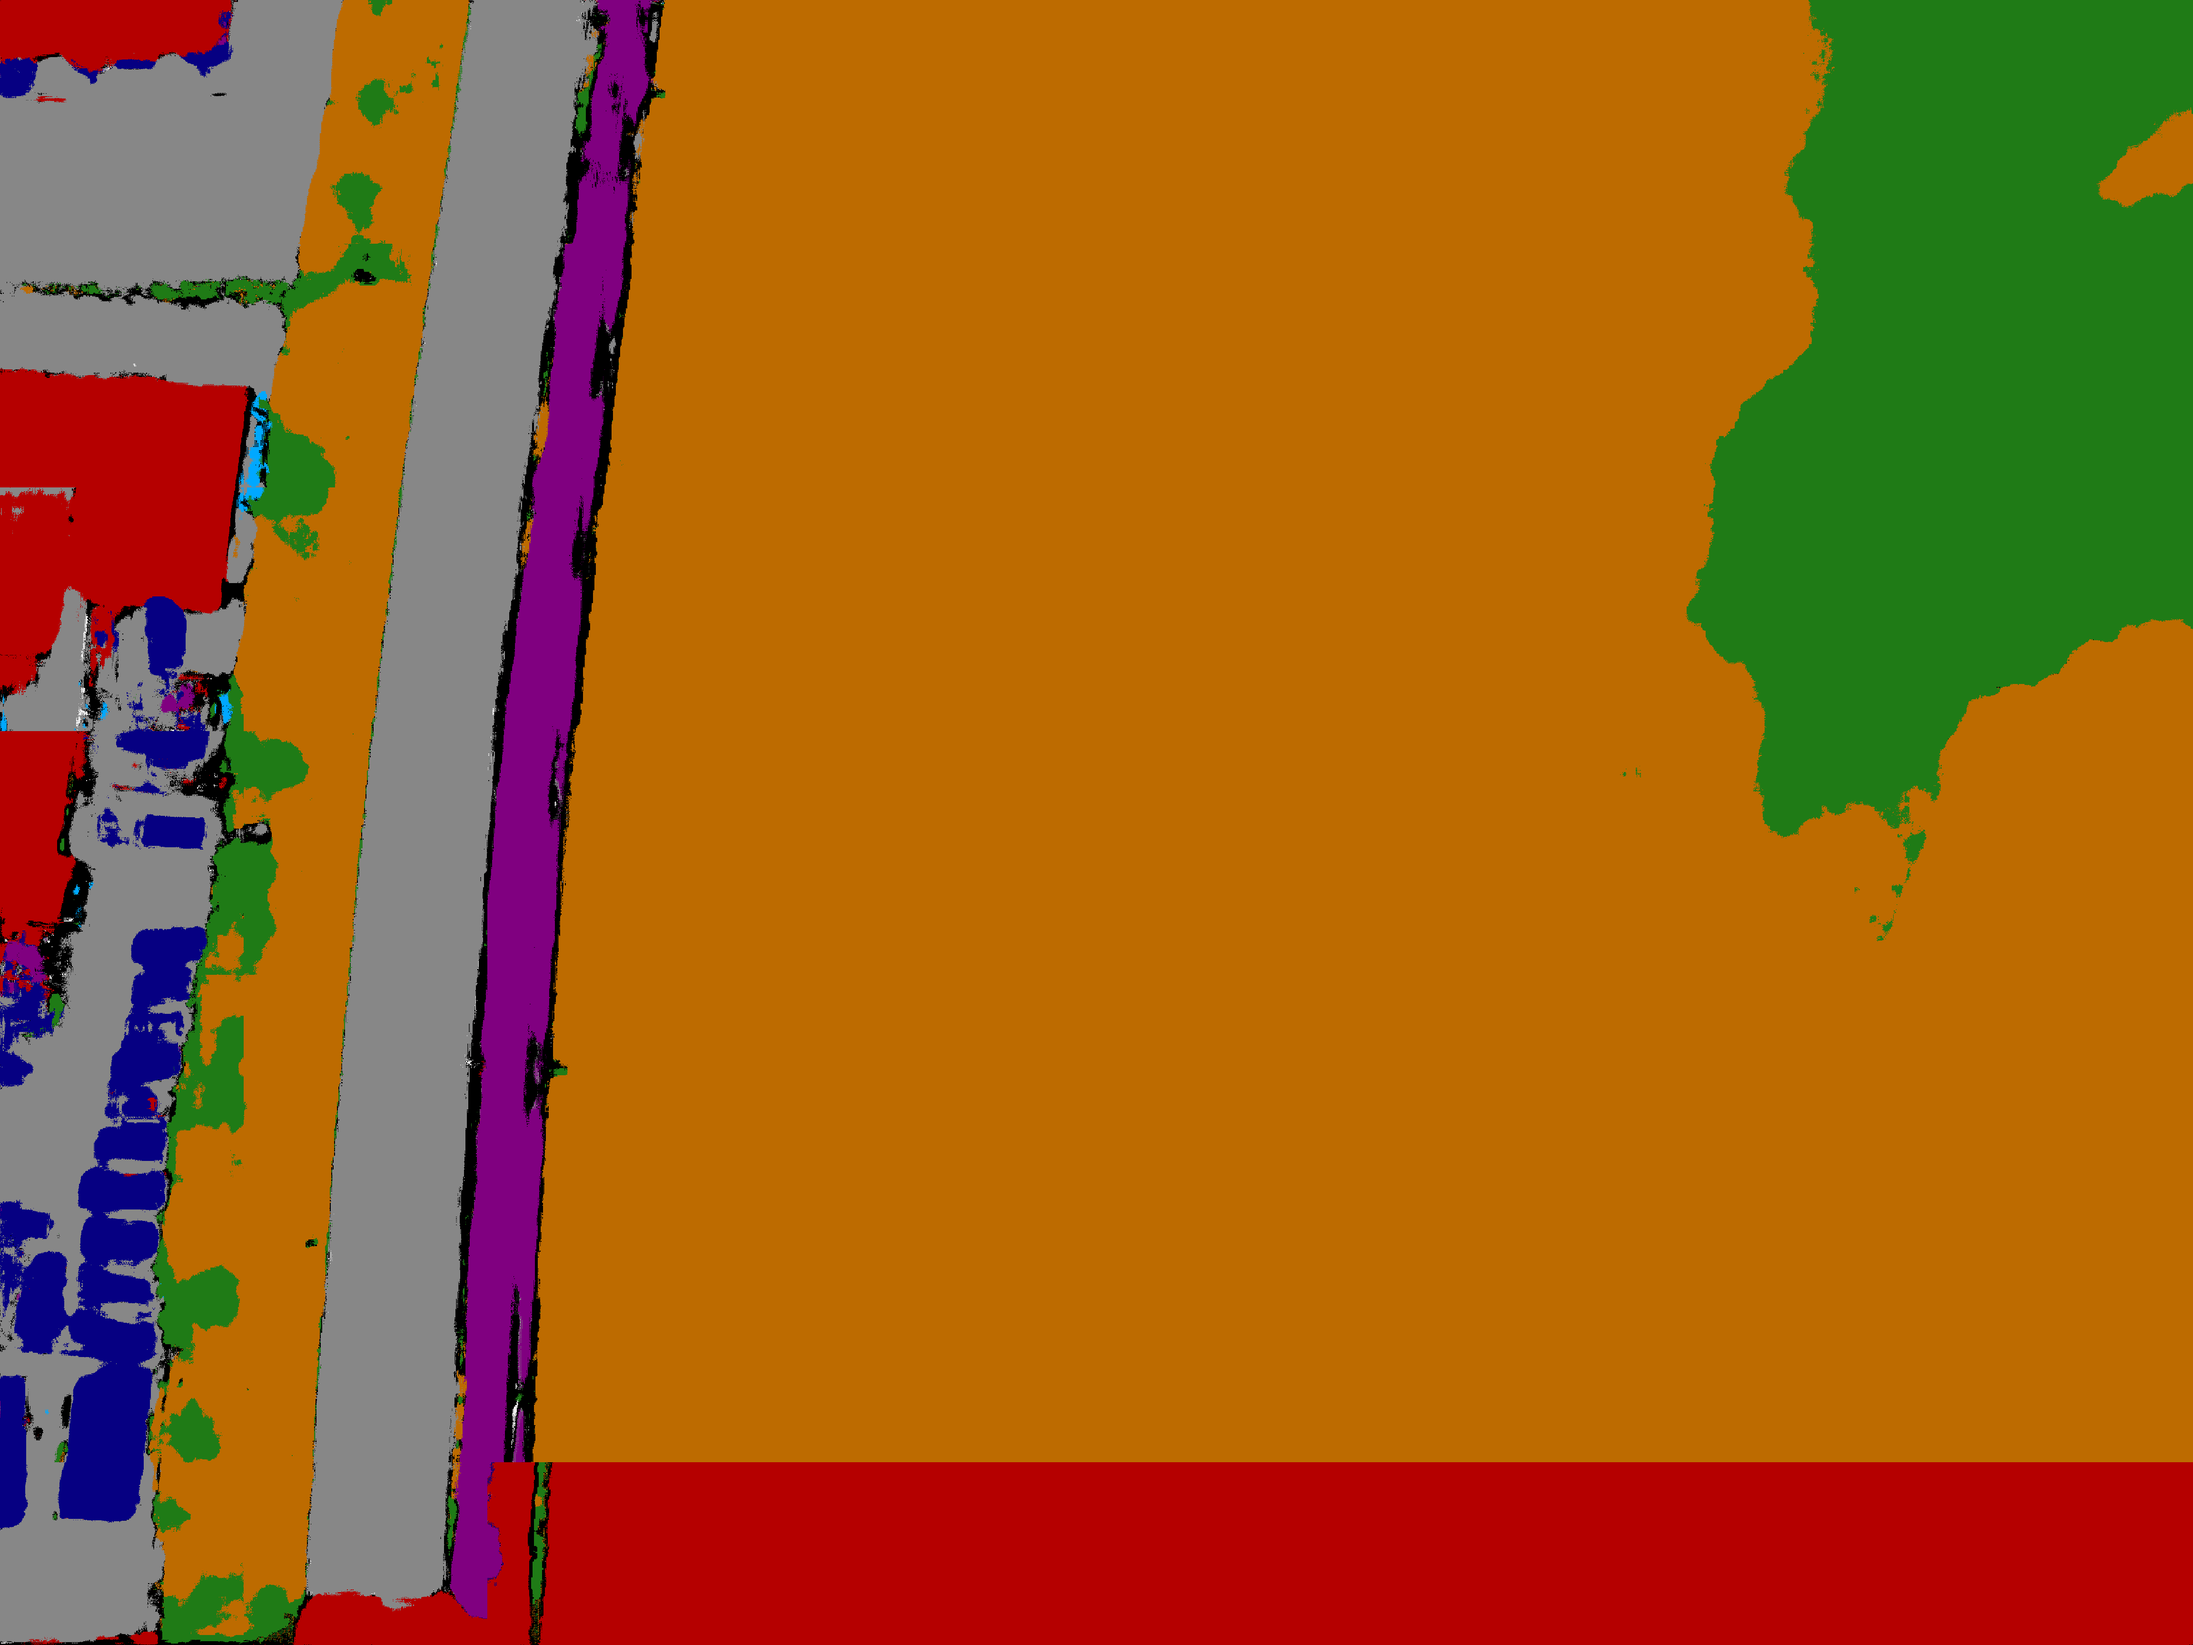
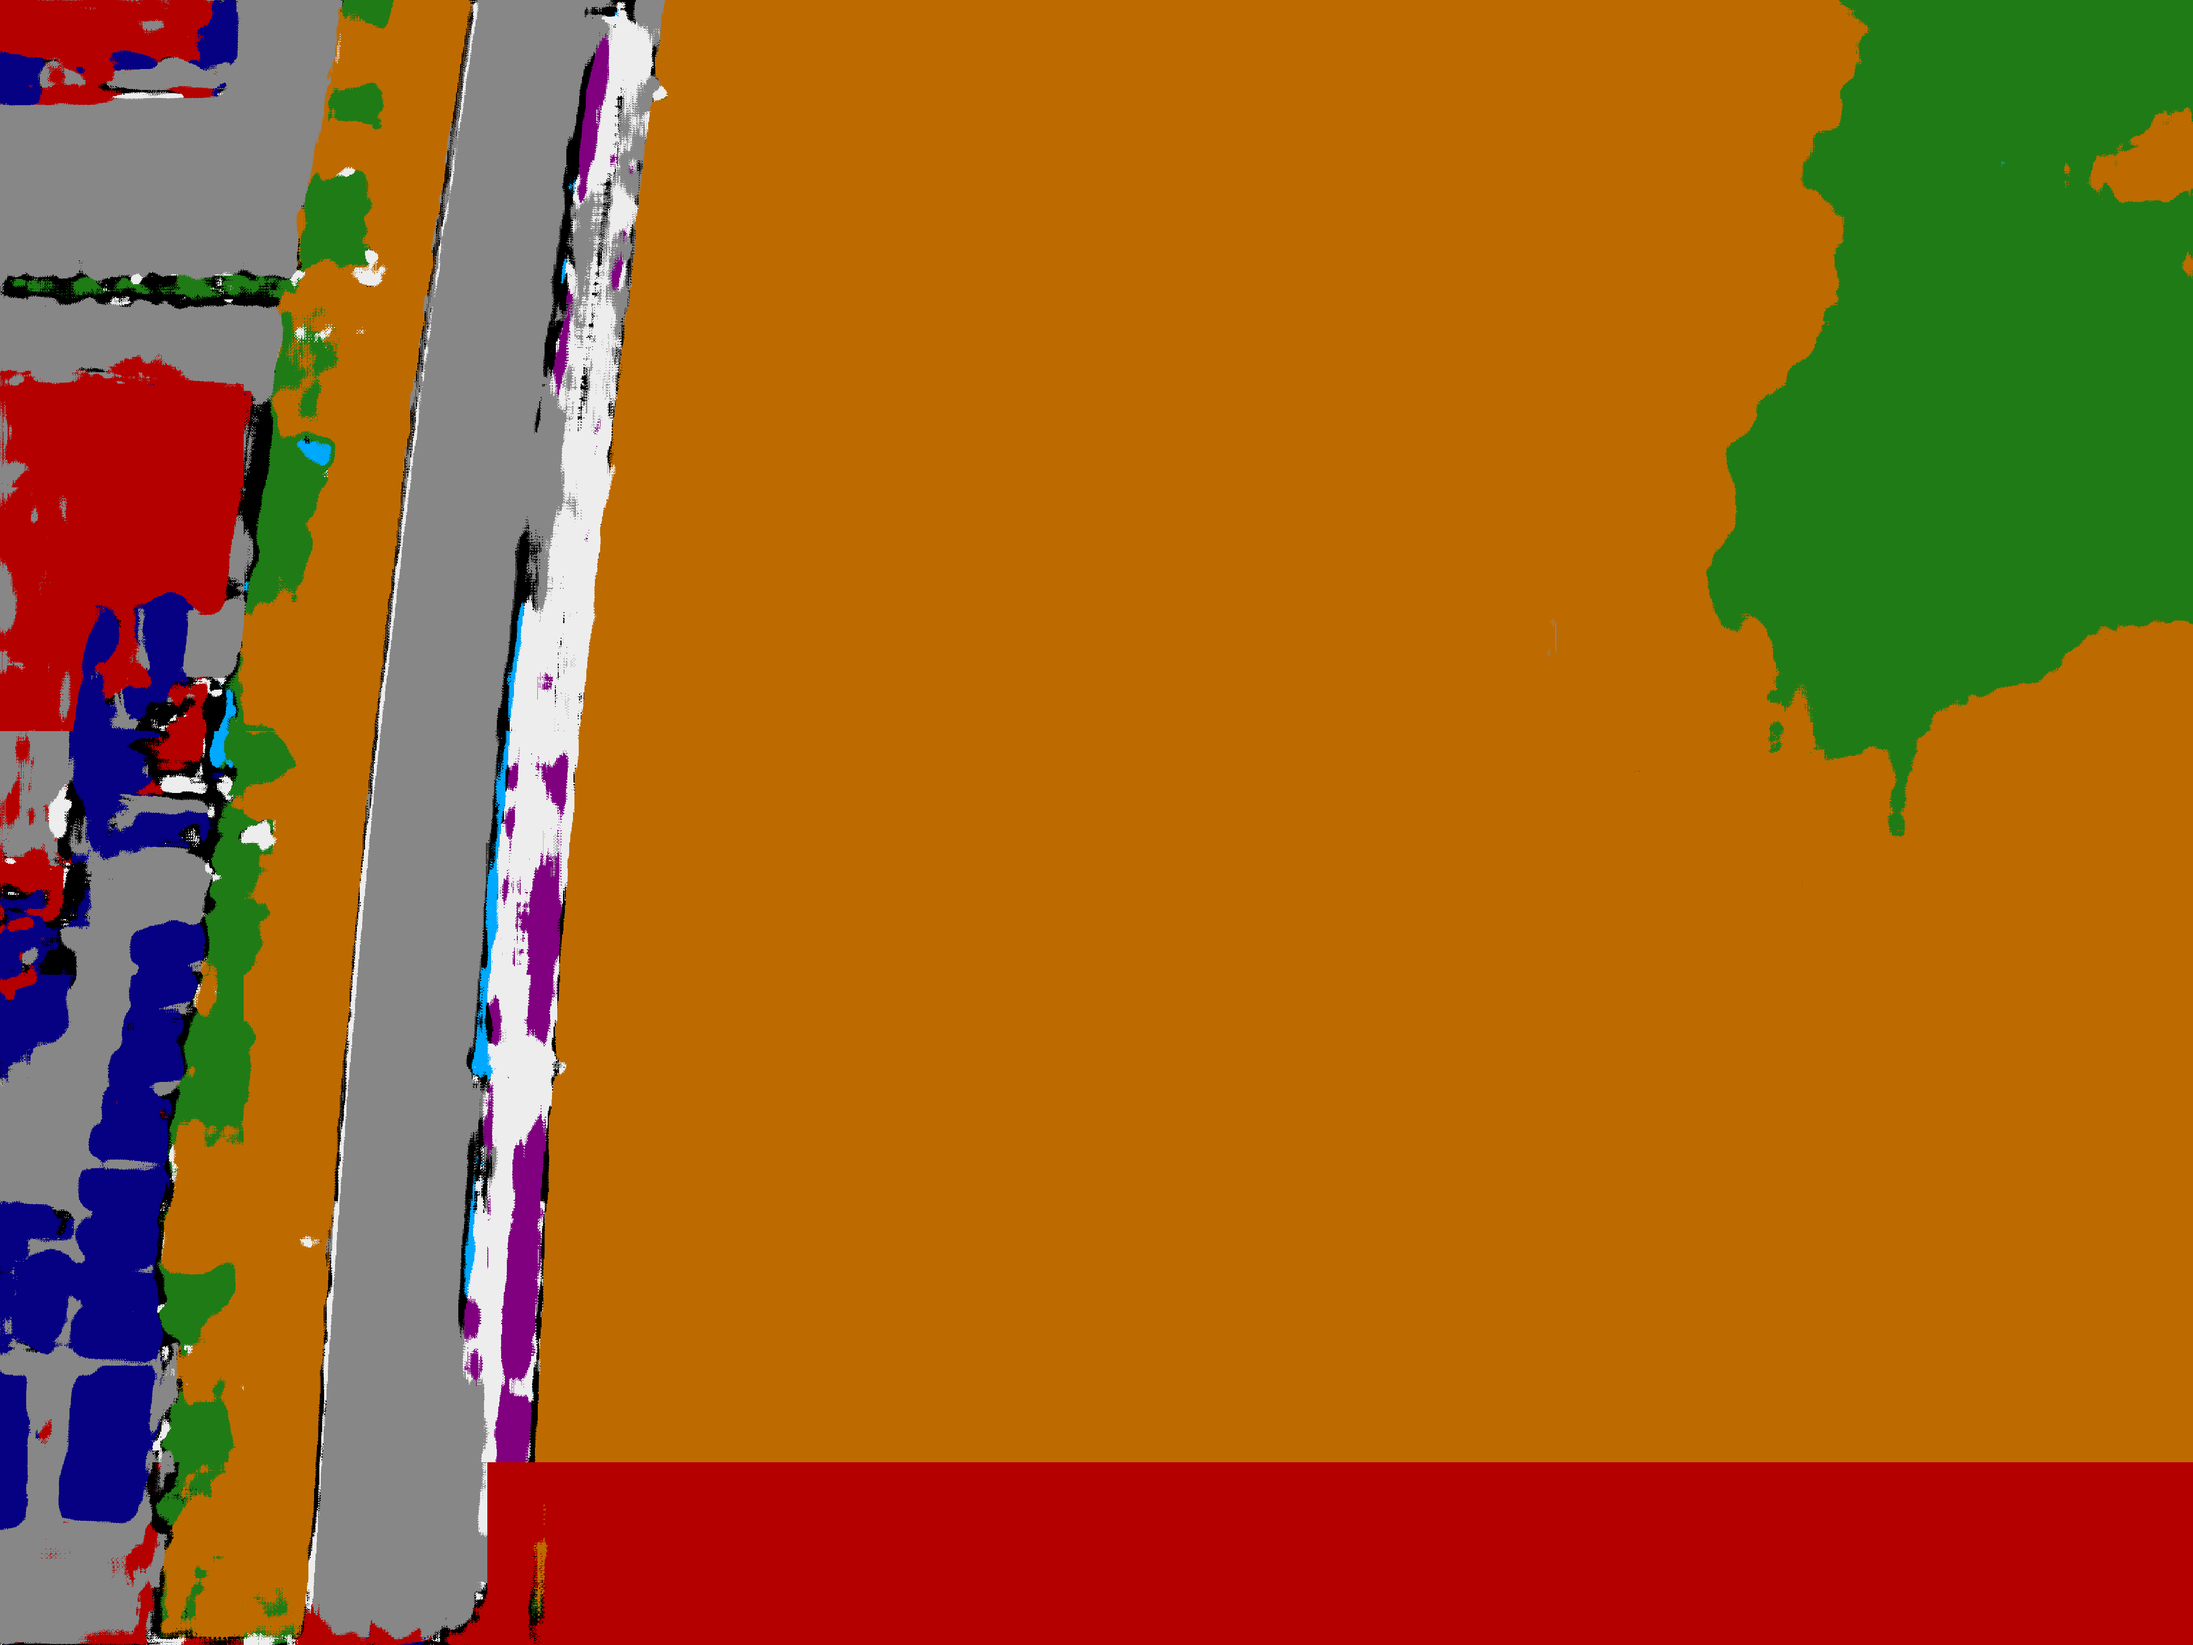
Modified base_kernels to (11,11) and enabled input_normalization in train_eval_infer.config.

diff --git a/README.md b/README.md
@@ -1,8 +1,15 @@
-<h2>TensorFlow-FlexUNet-Tiled-Image-Segmentation-Drone-Image (2025/12/02)</h2>
-
+<h2>TensorFlow-FlexUNet-Tiled-Image-Segmentation-Drone-Image (Updated: 2025/12/10)</h2>
 Toshiyuki Arai<br>
 Software Laboratory antillia.com<br>
 <br>
+<li>
+2025/12/07: Modified <b>base_kernels</b> to (11,11) and enabled <b>input_normalization</b> in 
+<a href="./projects/TensorFlowFlexUNet/Drone-Image/train_eval_infer.config"><b>train_eval_infer.config</b></a> to improve 
+segmentation accuracy, 
+and retrained the segmentation model. 
+</li>
+<br>
+
 This is the first experiment of Image Segmentation for <b>Drone-Image</b>  based on 
 our <a href="./src/TensorFlowFlexUNet.py">TensorFlowFlexUNet</a>
  (<b>TensorFlow Flexible UNet Image Segmentation Model for Multiclass</b>)
@@ -37,8 +44,7 @@ with the original resolution.
 <b>Actual Image Segmentation for the original Drone Images of 3.8K to 4.6K pixels</b><br>
 As shown below, the tiled_inferred masks predicted by our segmentation model trained on the 
 Tiled dataset appear similar to the ground truth masks, but they lack precision in certain areas.<br>
-<b>rgb_map= {Outdoor structures:(237,237,237), Buildings:(181,0,0),Paved ground:(135,135,135),Non-paved ground:(189,107,0),
-Train tracks:(128,0,128),Plants:(31,123,22),Wheeled vehicles:(6,0,30),Water:(0,168,255),People:(240,255,0)}</b>
+<a href="#color_class_mapping_table">Drone Image color-class-mapping-table</a>
 <br>
 <br>
 <table>
@@ -167,22 +173,22 @@ We used the following two Python scripts to generate our tiled dataset.
 We generated our augmented Tiled Drone-Image from the original train <b>Drone-Image</b>  by using an offline
 augmentation tool <a href="./generator/TiledImageMaskDatasetGenerator.py">TiledImageMaskDatasetGenerator.py</a><br>
 We also used the following category and color mapping table in the Generator script to generate our colorized masks<br>
-<table border="1" style="border-collapse: collapse;">
-<tr><th>Mask value</th><th>Category</th><th>RGB triplet</th></tr>
-
-<tr><td>0</td><td>Background</td><td>(0,0,0)</td><tr>
-<tr><td>1</td><td>Outdoorstructures</td><td>(237,237,237)</td><tr>
-<tr><td>2</td><td>Buildings</td><td>(181,0,0)</td><tr>
-<tr><td>3</td><td>Pavedground</td><td>(135,135,135)</td><tr>
-<tr><td>4</td><td>Non-pavedground</td><td>(189,107,0])</td><tr>
-<tr><td>5</td><td>Traintracks</td><td>(128,0,128)</td><tr>
-<tr><td>6</td><td>Plants</td><td>(31,123,22)</td><tr>
-<tr><td>7</td><td>Wheeledvehicles</td><td>(6,0,130)</td><tr>
-<tr><td>8</td><td>Water</td><td>(0,168,255)</td><tr>
-<tr><td>9</td><td>People</td><td>(240,255,0)</td><tr>
+<br>
+<b><a id ="color_class_mapping_table">Drone Image color-class-mapping-table</a></b><br>
+<table border=1 style='border-collapse:collapse;' cellpadding='5'>
+<caption>Drone Image 9 classes</caption>
+<tr><th>Indexed Color</th><th>Color</th><th>RGB</th><th>Class</th></tr>
+<tr><td>1</td><td with='80' height='auto'><img src='./color_class_mapping/Outdoorstructures.png' widith='40' height='25'</td><td>(237, 237, 237)</td><td>Outdoorstructures</td></tr>
+<tr><td>2</td><td with='80' height='auto'><img src='./color_class_mapping/Buildings.png' widith='40' height='25'</td><td>(181, 0, 0)</td><td>Buildings</td></tr>
+<tr><td>3</td><td with='80' height='auto'><img src='./color_class_mapping/Pavedground.png' widith='40' height='25'</td><td>(135, 135, 135)</td><td>Pavedground</td></tr>
+<tr><td>4</td><td with='80' height='auto'><img src='./color_class_mapping/Non-pavedground.png' widith='40' height='25'</td><td>(189, 107, 0)</td><td>Non-pavedground</td></tr>
+<tr><td>5</td><td with='80' height='auto'><img src='./color_class_mapping/Traintracks.png' widith='40' height='25'</td><td>(128, 0, 128)</td><td>Traintracks</td></tr>
+<tr><td>6</td><td with='80' height='auto'><img src='./color_class_mapping/Plants.png' widith='40' height='25'</td><td>(31, 123, 22)</td><td>Plants</td></tr>
+<tr><td>7</td><td with='80' height='auto'><img src='./color_class_mapping/Wheeledvehicles.png' widith='40' height='25'</td><td>(6, 0, 130)</td><td>Wheeledvehicles</td></tr>
+<tr><td>8</td><td with='80' height='auto'><img src='./color_class_mapping/Water.png' widith='40' height='25'</td><td>(0, 168, 255)</td><td>Water</td></tr>
+<tr><td>9</td><td with='80' height='auto'><img src='./color_class_mapping/People.png' widith='40' height='25'</td><td>(240, 255, 0)</td><td>People</td></tr>
 </table>
 <br>
-
 <h4>2.3 Tiled Drone-Image Samples</h4>
 
 <b>Train_images_sample</b><br>
@@ -208,7 +214,7 @@ Please move to ./projects/TensorFlowFlexUNet/Drone-Image and, and run the follow
 <hr>
 
 <b>Model parameters</b><br>
-Defined a small <b>base_filters = 16</b> and small <b>base_kernels = (5,5)</b> for the first Conv Layer of Encoder Block of 
+Defined a small <b>base_filters = 16</b> and large <b>base_kernels = (11,11)</b> for the first Conv Layer of Encoder Block of 
 <a href="./src/TensorFlowFlexUNet.py">TensorFlowFlexUNet.py</a> 
 and a large num_layers (including a bridge between Encoder and Decoder Blocks).
 <pre>
@@ -216,11 +222,12 @@ and a large num_layers (including a bridge between Encoder and Decoder Blocks).
 image_width    = 512
 image_height   = 512
 image_channels = 3
+input_normalization = True
 
 num_classes    = 10
 
 base_filters   = 16
-base_kernels   = (7,7)
+base_kernels   = (11,11)
 num_layers     = 8
 dropout_rate   = 0.05
 dilation       = (1,1)
@@ -267,7 +274,10 @@ patience      = 10
 </pre>
 
 <b>RGB Color map</b><br>
-rgb color map dict for Drone-Image 1+1 classes.
+rgb color map dict for Drone-Image 1+9 classes.
+<a href="#color_class_mapping_table">Drone Image color-class-mapping-table</a>
+<br>
+<br>
 <pre>
 [mask]
 mask_datatype    = "categorized"
@@ -303,17 +313,17 @@ By using this callback, on every epoch_change, the tiled inference procedure can
 <b>Epoch_change_inference output at starting (epoch 1,2,3,4)</b><br>
 <img src="./projects/TensorFlowFlexUNet/Drone-Image/asset/epoch_change_infer_at_start.png" width="1024" height="auto"><br>
 <br>
-<b>Epoch_change_inference output at middlepoint (epoch 24,25,26,27)</b><br>
+<b>Epoch_change_inference output at middlepoint (epoch 22,23,24,25)</b><br>
 <img src="./projects/TensorFlowFlexUNet/Drone-Image/asset/epoch_change_infer_at_middlepoint.png" width="1024" height="auto"><br>
 <br>
 
-<b>Epoch_change_inference output at ending (epoch 51,52,53,54)</b><br>
+<b>Epoch_change_inference output at ending (epoch 47,48,49,50)</b><br>
 <img src="./projects/TensorFlowFlexUNet/Drone-Image/asset/epoch_change_infer_at_end.png" width="1024" height="auto"><br>
 <br>
 
 
-In this experiment, the training process was stopped at epoch 54 by EarlyStoppingCallback.<br><br>
-<img src="./projects/TensorFlowFlexUNet/Drone-Image/asset/train_console_output_at_epoch54.png" width="880" height="auto"><br>
+In this experiment, the training process was stopped at epoch 50 by EarlyStoppingCallback.<br><br>
+<img src="./projects/TensorFlowFlexUNet/Drone-Image/asset/train_console_output_at_epoch50.png" width="880" height="auto"><br>
 <br>
 
 <a href="./projects/TensorFlowFlexUNet/Drone-Image/eval/train_metrics.csv">train_metrics.csv</a><br>
@@ -339,13 +349,18 @@ python ../../../src/TensorFlowFlexUNetEvaluator.py ./train_eval_infer.config
 </pre>
 
 Evaluation console output:<br>
-<img src="./projects/TensorFlowFlexUNet/Drone-Image/asset/evaluate_console_output_at_epoch54.png" width="880" height="auto">
+<img src="./projects/TensorFlowFlexUNet/Drone-Image/asset/evaluate_console_output_at_epoch50.png" width="880" height="auto">
 <br><br>Image-Segmentation-Aerial-Imagery
 
 <a href="./projects/TensorFlowFlexUNet/Drone-Image/evaluation.csv">evaluation.csv</a><br>
 
 The loss (categorical_crossentropy) to this Drone-Image/test was not low, and dice_coef_multiclass not high as shown below.
 <br>
+<pre>
+categorical_crossentropy,0.4031
+dice_coef_multiclass,0.8418
+</pre>
+, which were slightly improved from the previos results.
 <pre>
 categorical_crossentropy,0.5267
 dice_coef_multiclass,0.8366
@@ -377,10 +392,11 @@ python ../../../src/TensorFlowFlexUNetTiledInferencer.py ./train_eval_infer.conf
 <hr>
 <b>Enlarged images and masks for the original Drone Images of 3.8K to 4.6K  pixels</b><br>
 As shown below, the tiled_inferred masks predicted by our segmentation model trained on the 
-Tiled dataset appear similar to the ground truth masks, but they lack precision in certain areas.<br>
-<b>rgb_map= {Outdoor structures:(237,237,237), Buildings:(181,0,0),Paved ground:(135,135,135),
-Non-paved ground:(189,107,0),Train tracks:(128,0,128),Plants:(31,123,22),Wheeled vehicles:(6,0,30),Water:(0,168,255),People:(240,255,0)}</b>
-<br><br>
+Tiled dataset appear similar to the ground truth masks, but they lack precision in certain areas,
+especially failed to segment whitish Outdoorstructures regions.<br>
+<a href="#color_class_mapping_table">Drone Image color class mapping table</a>
+<br>
+<br>
 <table>
 <tr>
 
